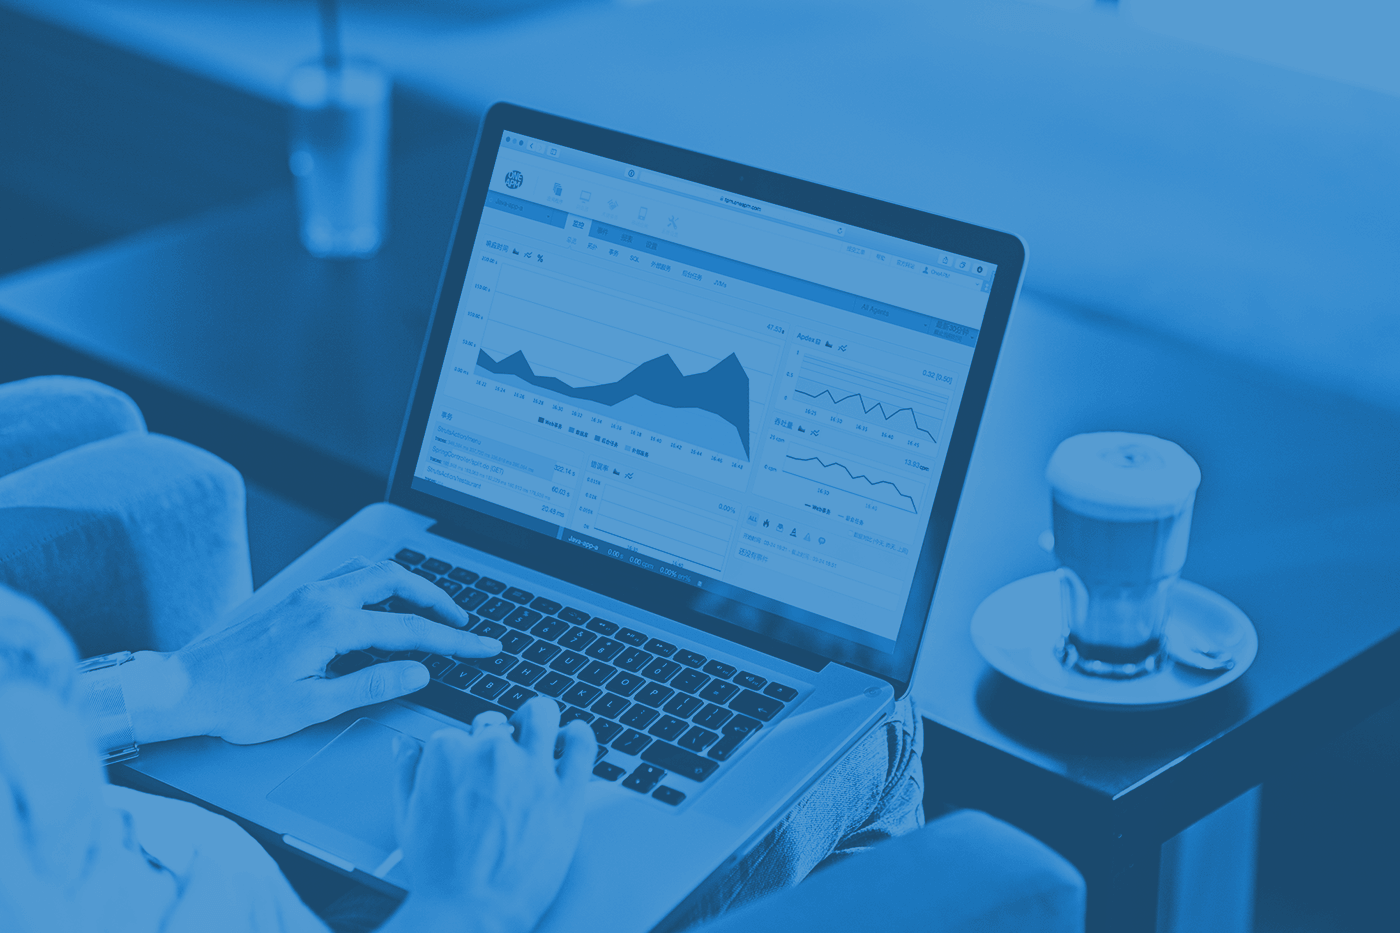
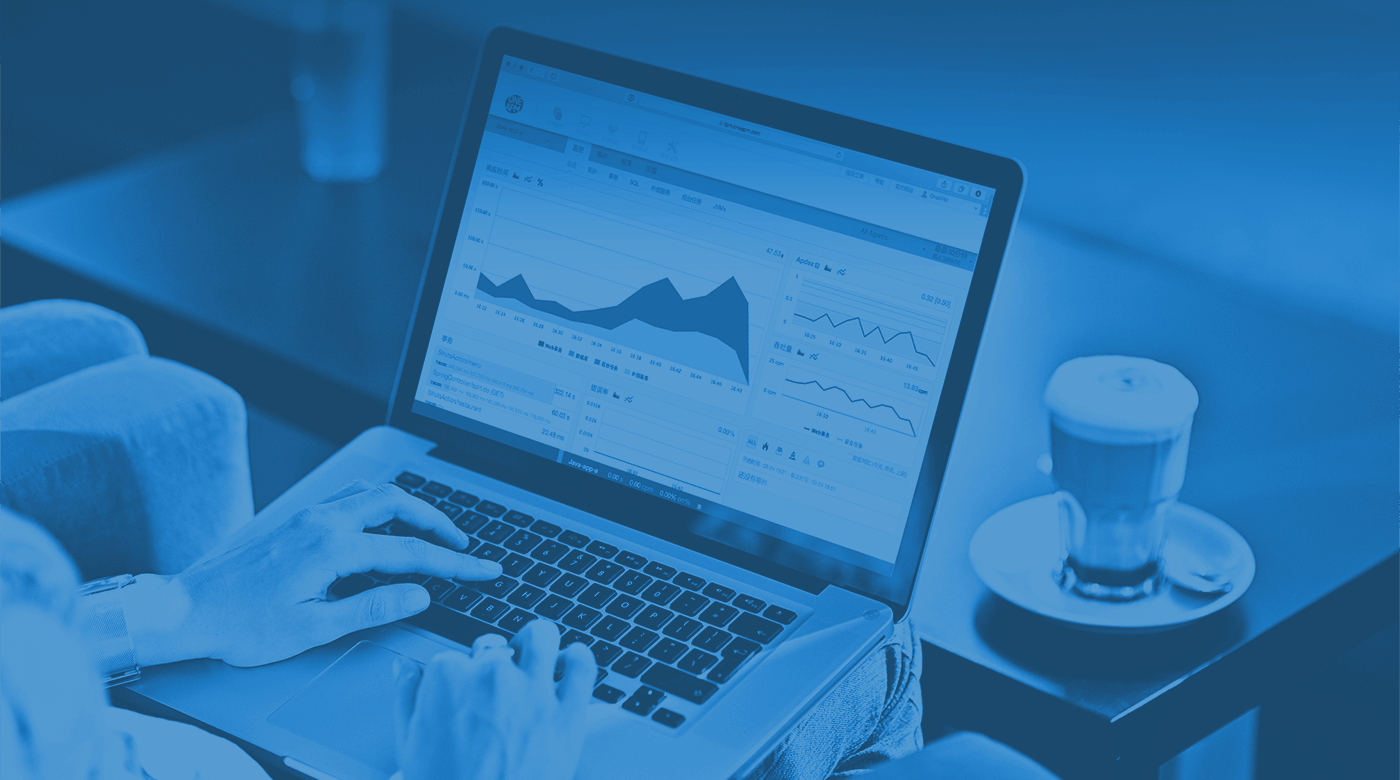
bg pic and meta

diff --git a/app/templates/apm/price.html b/app/templates/apm/price.html
@@ -1,7 +1,7 @@
 {% extends '../base/_layout.html' %}
 
 {% block content %}
-<div class="headline-bg pricing-headline-bg"></div><!-- headline-bg -->
+<div class="headline-bg ai-headline-bg"></div><!-- headline-bg -->
 <section class="pricing section section-on-bg">  
     <div class="container">
         <h2 class="title text-center">Ai 报价</h2>
@@ -22,7 +22,7 @@
                                 <li class="disabled"><i class="fa fa-times" style="color: transparent;"></i></li>
                                 <li>5 x 8 小时<br/>电话 &amp; 邮件 &amp; 远程支持</li>
                             </ul>
-                            <a class="btn btn-cta btn-cta-primary" href="signup.html">马上试用</a>
+                            <a class="btn btn-cta btn-cta-primary" href="https://user.oneapm.com/account/register.do">马上试用</a>
 
                         </div><!--//content-->
                     </div><!--//item-inner-->
@@ -43,7 +43,7 @@
                                 <li>7 x 24 小时<br/>电话 &amp; 邮件 &amp; 远程支持</li>
                                                                     
                             </ul>
-                            <a class="btn btn-cta btn-cta-primary" href="signup.html">马上试用</a>
+                            <a class="btn btn-cta btn-cta-primary" href="https://user.oneapm.com/account/register.do">马上试用</a>
                         </div><!--//content-->
                         <div class="ribbon">
                             <div class="text">Popular</div>
@@ -65,7 +65,7 @@
                                 <li>Service SLA</li>
                                 <li>7 x 24 小时<br/>电话 &amp; 邮件 &amp; 远程支持 &amp; 现场服务</li>          
                             </ul>
-                            <a class="btn btn-cta btn-cta-primary" href="signup.html">400-659-1230</a>
+                            <a class="btn btn-cta btn-cta-primary" href="#">400-659-1230</a>
                             
                         </div><!--//content-->
                     </div><!--//item-inner-->
@@ -127,7 +127,7 @@
     <p class="text-center btn-part">
         <a href="#" class="btn btn-small btn-knowmore">查看功能对比</a>
         <span class="btn-span">or</span>
-        <a href="signup.html" class="btn btn-small btn-sign">立即注册</a>
+        <a href="https://user.oneapm.com/account/register.do" class="btn btn-small btn-sign">立即注册</a>
     </p>
 </section>
 
@@ -303,7 +303,7 @@
         <h2 class="title">超过 10 万全球开发者选择 OneAPM！</h2>
         <p class="intro">现在注册，即可免费试用专业版 15 天</p>
         <p>
-            <a class="btn btn-cta btn-cta-download" href="#" target="_blank">立即注册</a>
+            <a class="btn btn-cta btn-cta-download" href="https://user.oneapm.com/account/register.do" target="_blank">立即注册</a>
         </p>
     </div><!--//container-->
 </section><!--//cta-section-->
@@ -314,11 +314,8 @@
 
     {% parent %}
     <!-- build:js(.) /scripts/apm-price.js -->
-    <script type="text/javascript" src="../../scripts/main.js"></script>
     <script type="text/javascript" src="../../scripts/show-function.js"></script>
-    <script type="text/javascript" src="../../scripts/jquery.ba-throttle-debounce.min.js"></script>
     <script type="text/javascript" src="../../scripts/jquery.stickyheader.js"></script>
-
     <!-- endbuild -->
 
 {% endblock %}

diff --git a/app/templates/base/_header.html b/app/templates/base/_header.html
@@ -22,12 +22,12 @@
                           <i class="iconfont icon-nav">&#xe604;</i> 
                         </a>
                         <ul class="dropdown-menu">
-                            <li><a href="/apm/features.html">特性</a></li>
+                            <li><a href="/apm/feature.html">特性</a></li>
                             <li class="active"><a href="/apm/price.html">报价</a></li>
                             <li><a href="/apm/java.html">Java</a></li>
-                            <li><a href="/apm/net.html">.NET</a></li>
+                            <li><a href="/apm/dotnet.html">.NET</a></li>
                             <li><a href="/apm/python.html">Python</a></li>
-                            <li><a href="/apm/node.html">Node.js</a></li>
+                            <li><a href="/apm/nodejs.html">Node.js</a></li>
                             <li><a href="/apm/php.html">PHP</a></li>                   
                             <li><a href="/apm/ruby.html">Ruby</a></li>                   
                         </ul>                            
@@ -37,7 +37,7 @@
                           <i class="iconfont icon-nav">&#xe605;</i> 
                         </a>
                         <ul class="dropdown-menu">
-                            <li><a href="/broswer/features.html">特性</a></li>
+                            <li><a href="/broswer/feature.html">特性</a></li>
                             <li><a href="/broswer/price.html">报价</a></li>
                         </ul>                            
                     </li>  
@@ -46,7 +46,7 @@
                           <i class="iconfont icon-nav">&#xe606;</i>
                         </a>
                         <ul class="dropdown-menu">
-                            <li><a href="/mobile/features.html">特性</a></li>
+                            <li><a href="/mobile/feature.html">特性</a></li>
                             <li><a href="/mobile/price.html">报价</a></li>
                             <li><a href="/mobile/ios.html">iOS</a></li>
                             <li><a href="/mobile/android.html">Android</a></li>
@@ -58,9 +58,9 @@
                     <li class="nav-item dropdown">
                         <a class="dropdown-toggle" data-hover="dropdown" data-toggle="dropdown" data-delay="0" data-close-others="false" href="/about/company.html">关于</a>
                         <ul class="dropdown-menu">
-                            <li><a href="/about/company.html">公司</a></li>
-                            <li><a href="/about/position.html">职位</a></li>
-                            <li><a href="/about/client.html">客户</a></li>
+                            <li><a href="/about/about.html">公司</a></li>
+                            <li><a href="/about/jobs.html">职位</a></li>
+                            <li><a href="/about/customers.html">客户</a></li>
                             <!-- <li><a href="/about/partner.html">伙伴</a></li> -->
                         </ul>                            
                     </li>             

diff --git a/app/templates/apm/feature.html b/app/templates/apm/feature.html
@@ -1,7 +1,7 @@
 {% extends '../base/_layout.html' %}
 
 {% block content %}
-<div class="headline-bg bg-apm"></div><!-- headline-bg -->
+<div class="headline-bg ai-headline-bg"></div><!-- headline-bg -->
 <section class="features-video section section-on-bg">
     <div class="container text-center">
         <h2 class="title">从用户体验到网络服务，直至应用代码</h2>
@@ -31,7 +31,7 @@
         </div>
     </section>
 <!-- ******分布式事务追踪 Section****** -->
-    <section class="section features-apm" style="background:#eee;">
+    <section class="section features-apm" style="background:#F7F7F7;">
         <div class="container">
             <h2 class="title">分布式事务追踪</h2>
             <p class="desp">在分布式环境中，定位事务的性能瓶颈</p>
@@ -136,11 +136,6 @@
 
     {% parent %}
     <!-- build:js(.) /scripts/apm-feature.js -->
-    <script type="text/javascript" src="/vendors/bootstrap-hover-dropdown/bootstrap-hover-dropdown.min.js"></script>
-    <script type="text/javascript" src="/vendors/back-to-top.js"></script>
-    <script type="text/javascript" src="/vendors/jquery.placeholder/jquery.placeholder.min.js"></script>
-    <script type="text/javascript" src="/scripts/main.js"></script>
-    <script type="text/javascript" src="/scripts/show-function.js"></script>
     <!-- endbuild -->
 
 {% endblock %}

diff --git a/app/templates/apm/java.html b/app/templates/apm/java.html
@@ -1,7 +1,7 @@
 {% extends '../base/_layout.html' %}
 
 {% block content %}
-<div class="headline-bg pricing-headline-bg"></div><!-- headline-bg -->
+<div class="headline-bg ai-headline-bg"></div><!-- headline-bg -->
 <section class="features-video section section-on-bg">
     <div class="container text-center">
         <h2 class="title">OneAPM for Java</h2>
@@ -337,7 +337,7 @@
         				<h4 class="frame-title">客户案例</h4>
 		        		<div >
 							<a href="/pdf/CaseStudy-21cp.pdf" target="_blank">
-								<img src="/images/lang/case1.png" alt="中塑在线">
+								<img src="/images/about/case1.png" alt="中塑在线">
 							</a>
 						</div>
         			</div>
@@ -353,12 +353,7 @@
 {% block scripts %}
 
     {% parent %}
-    <!-- build:js(.) /scripts/apm-feature.js -->
-    <script type="text/javascript" src="/vendors/bootstrap-hover-dropdown/bootstrap-hover-dropdown.min.js"></script>
-    <script type="text/javascript" src="/vendors/back-to-top.js"></script>
-    <script type="text/javascript" src="/vendors/jquery.placeholder/jquery.placeholder.min.js"></script>
-    <script type="text/javascript" src="/scripts/main.js"></script>
-    <script type="text/javascript" src="/scripts/show-function.js"></script>
+    <!-- build:js(.) /scripts/java.js -->
     <!-- endbuild -->
 
 {% endblock %}

diff --git a/app/templates/about/customers.html b/app/templates/about/customers.html
@@ -1,7 +1,7 @@
 {% extends '../base/_layout.html' %}
 {% block content %}
 
-<div class="headline-bg pricing-headline-bg"></div><!-- headline-bg -->
+<div class="headline-bg about-headline-bg"></div><!-- headline-bg -->
 <section class="features-video section section-on-bg">
 	<h2 class="title text-center">客户</h2>
 	<div class="mail-container container">
@@ -147,7 +147,7 @@
         <h2 class="title">超过 10 万全球开发者选择 OneAPM！</h2>
         <p class="intro">现在注册，即可免费试用专业版 15 天</p>
         <p>
-            <a class="btn btn-cta btn-cta-download" href="#" target="_blank">立即注册</a>
+            <a class="btn btn-cta btn-cta-download" href="https://user.oneapm.com/account/register.do" target="_blank">立即注册</a>
         </p>
     </div><!--//container-->
 </section><!--//cta-section-->

diff --git a/app/styles/header.less b/app/styles/header.less
@@ -314,15 +314,21 @@
 }
 .headline-bg.pricing-headline-bg {
   background-image: url('../images/header.png');
-  // background: center no-repeat #19c5ea;
-  // background-image: linear-gradient(to bottom,#006ec3,#14b5eb);
-
+}
+.headline-bg.about-headline-bg {
+  background-image: url('../images/about/bg.png');
+}
+.headline-bg.ai-headline-bg {
+  background-image: url('../images/apm-imgs/bg.png');
+}
+.headline-bg.bi-headline-bg {
+  background-image: url('../images/bi/bg.png');
+}
+.headline-bg.mi-headline-bg {
+  background-image: url('../images/mobile-imgs/bg.png');
 }
 .headline-bg.contact-headline-bg {
   background-image: url('../images/background/bg-header-small-3.jpg');
-}
-.headline-bg.about-headline-bg {
-  background-image: url('../images/background/bg-header-small-4.jpg');
 }
 /* ======= Promo ======= */
 .promo {

diff --git a/app/templates/base/_layout.html b/app/templates/base/_layout.html
@@ -12,8 +12,8 @@
     <!-- 国产双核浏览器用 end -->
 
     {% block seotag %}
-    <meta name="keywords" content="" />
-    <meta name="description" content="" />
+    <meta name="keywords" content="{{keywords}}" />
+    <meta name="description" content="{{description}}" />
     {% endblock %}
 
     <meta name="viewport" content="width=device-width">
@@ -100,6 +100,7 @@
     <script type="text/javascript" src="/vendors/bootstrap-hover-dropdown/bootstrap-hover-dropdown.js"></script>
     <script type="text/javascript" src="/vendors/back-to-top.js"></script>
     <script type="text/javascript" src="/vendors/jquery.placeholder/jquery.placeholder.js"></script>
+    <script type="text/javascript" src="../../scripts/main.js"></script>
     <!-- endbuild -->
 
     {% if pageName %}

diff --git a/app/templates/apm/python.html b/app/templates/apm/python.html
@@ -1,7 +1,7 @@
 {% extends '../base/_layout.html' %}
 
 {% block content %}
-<div class="headline-bg pricing-headline-bg"></div><!-- headline-bg -->
+<div class="headline-bg ai-headline-bg"></div><!-- headline-bg -->
 <section class="features-video section section-on-bg">
     <div class="container text-center">
         <h2 class="title">OneAPM for Python</h2>
@@ -209,7 +209,7 @@
         				<h4 class="frame-title">客户案例</h4>
 		        		<div >
 							<a href="/pdf/CaseStudy-21cp.pdf" target="_blank">
-								<img src="/images/lang/case2.png" alt="中塑在线">
+								<img src="/images/about/case2.png" alt="V2EX">
 							</a>
 						</div>
         			</div>

diff --git a/app/styles/new.less b/app/styles/new.less
@@ -27,17 +27,17 @@
 	}
 }
 
-#apm-features-item1 .index-blue{
-	.num.num1 {
-		margin-right: 110px;
-		background: url('/images/num/1.png') 0 0 no-repeat;
-	}
-	.num.num2 {
-		margin-right: 110px;
-		background: url('/images/num/2.png') 0 0 no-repeat;
-	}
+// #apm-features-item1 .index-blue{
+// 	.num.num1 {
+// 		margin-right: 110px;
+// 		background: url('/images/num/1.png') 0 0 no-repeat;
+// 	}
+// 	.num.num2 {
+// 		margin-right: 110px;
+// 		background: url('/images/num/2.png') 0 0 no-repeat;
+// 	}
 
-}
+// }
 
 .section-content {
 	vertical-align: top;

diff --git a/Gruntfile.js b/Gruntfile.js
@@ -252,7 +252,7 @@ module.exports = function(grunt) {
         files: [{
           expand: true,
           cwd: '<%= config.app %>/images',
-          src: '{,*/}*.{gif,jpeg,jpg,png}',
+          src: '**/*.{gif,jpeg,jpg,png}',
           dest: '<%= config.dist %>/images'
         }]
       }
@@ -263,7 +263,7 @@ module.exports = function(grunt) {
         files: [{
           expand: true,
           cwd: '<%= config.app %>/images',
-          src: '{,*/}*.svg',
+          src: '**/*.svg',
           dest: '<%= config.dist %>/images'
         }]
       }

diff --git a/app/styles/iconfeature.less b/app/styles/iconfeature.less
@@ -48,6 +48,7 @@ section.mobfeatures-tabbed {
 	img {
 		width: 70%;
 		margin: auto;
+		box-shadow: 0 6px 12px rgba(0, 0, 0, 0.175);
 	}
 	
 }
@@ -104,6 +105,7 @@ section.trouble {
 	img{
 		margin: auto;
 		width: 80%;
+		box-shadow: 0 6px 12px rgba(0, 0, 0, 0.175);
 	}
 	span.icon {
 		height: 130px;
@@ -140,7 +142,7 @@ section.about-us {
 
 section.partner {
 	padding: 30px 0;
-	background: #fafafa;
+	background: #F7F7F7;
 	h2.title {
 		font-weight: normal;
 	}

diff --git a/app/templates/broswer/feature.html b/app/templates/broswer/feature.html
@@ -1,7 +1,7 @@
 {% extends '../base/_layout.html' %}
 
 {% block content %}
-<div class="headline-bg pricing-headline-bg"></div><!-- headline-bg -->
+<div class="headline-bg bi-headline-bg"></div><!-- headline-bg -->
 <section class="features-video section section-on-bg">
     <div class="container text-center">          
         <h2 class="title">让 OneAPM 为你的 HTML5 应用增色</h2>
